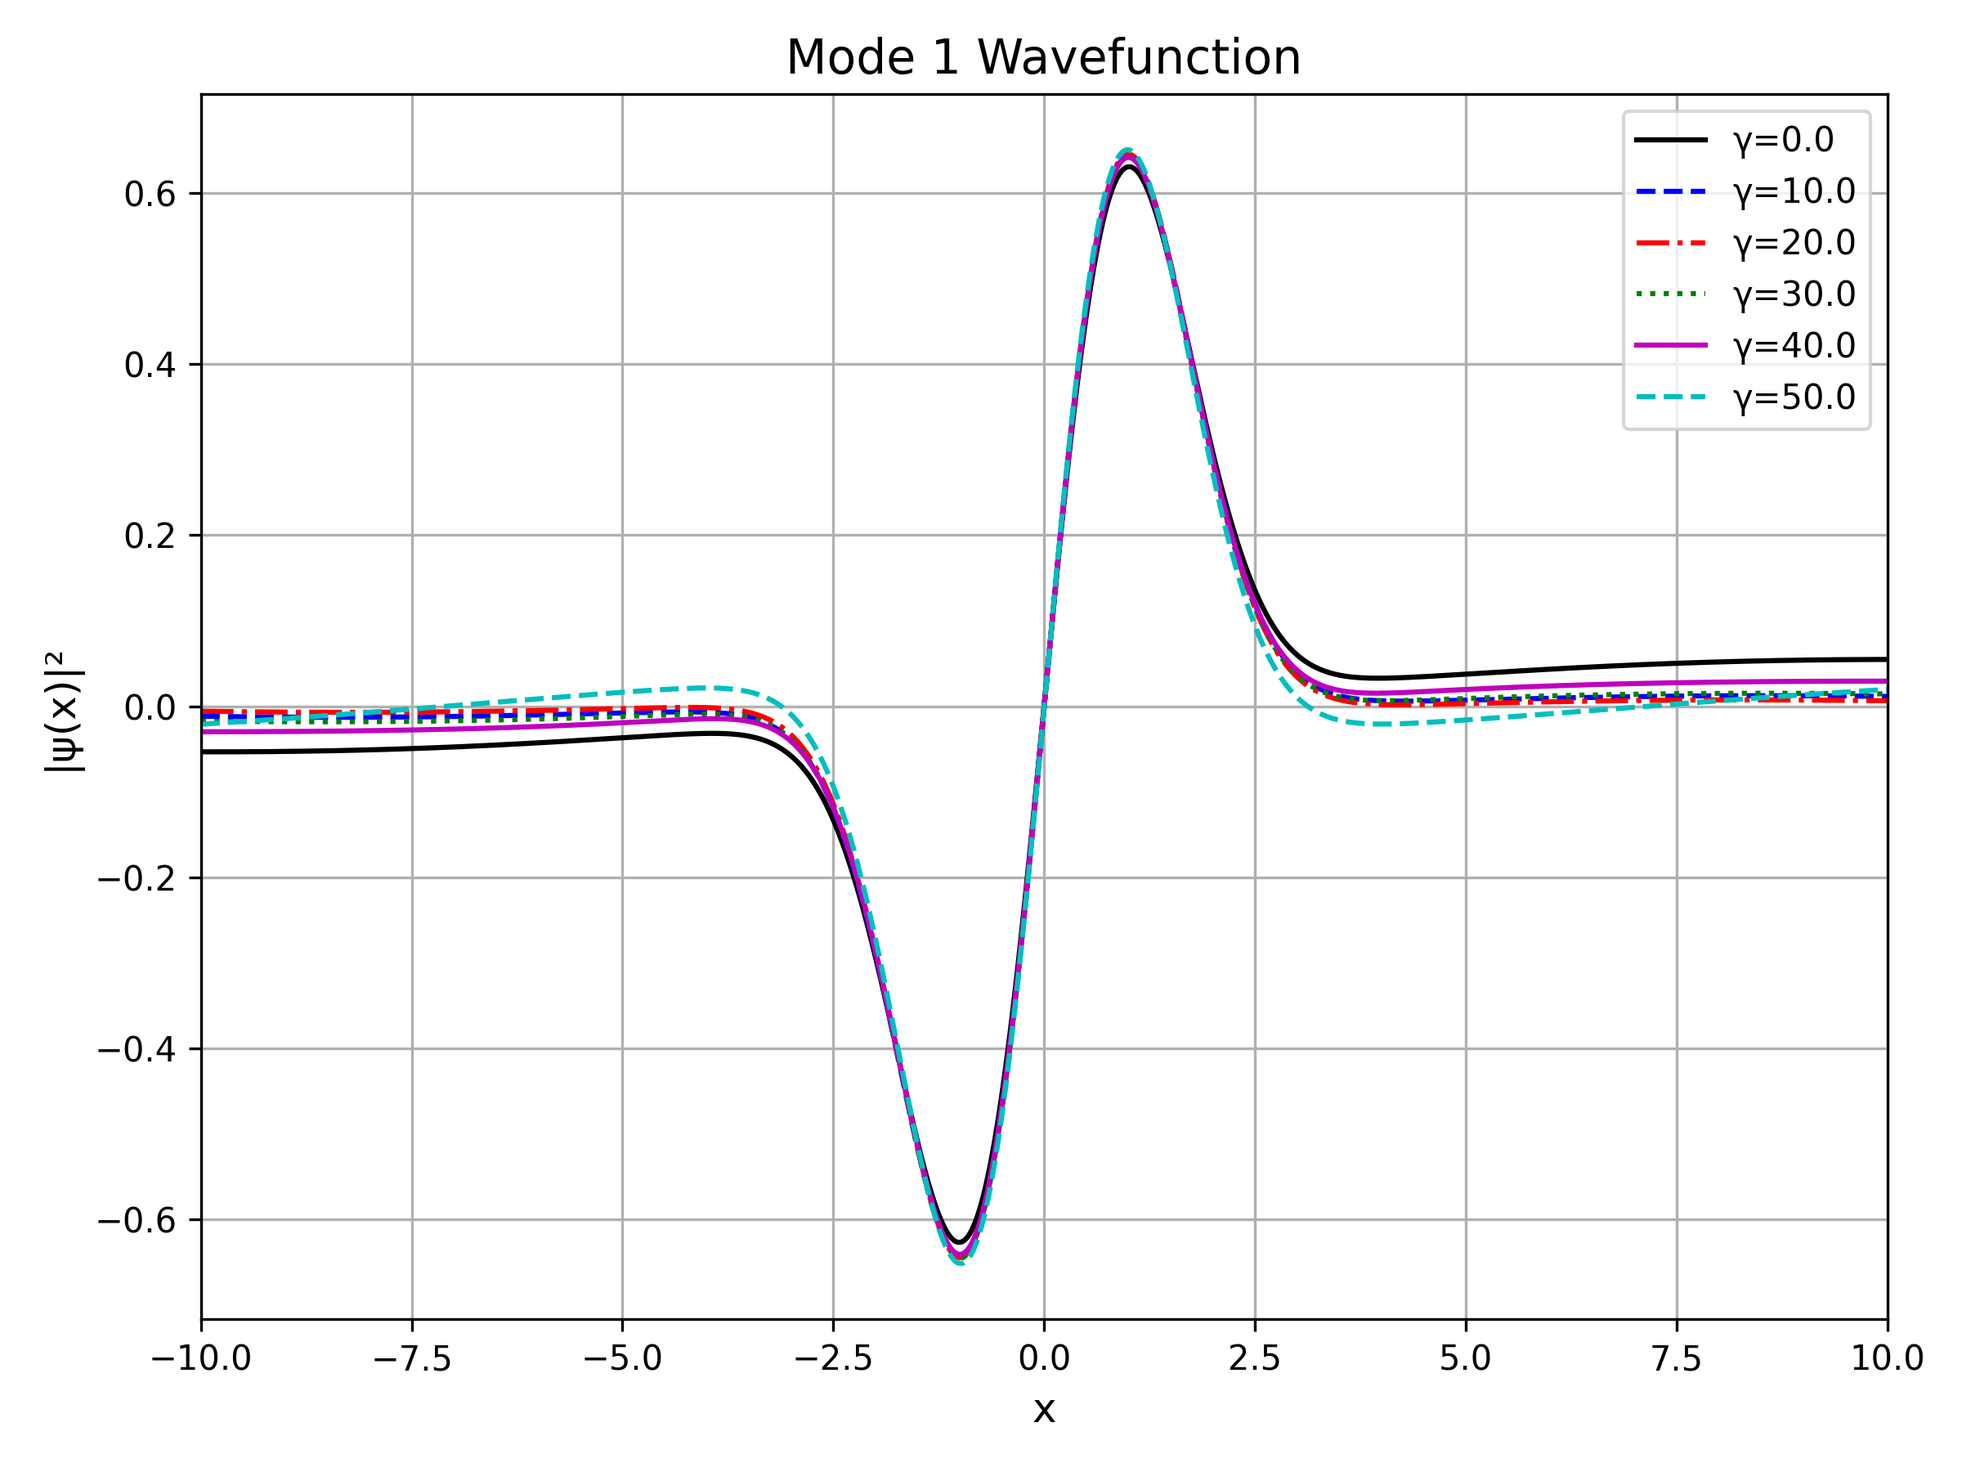
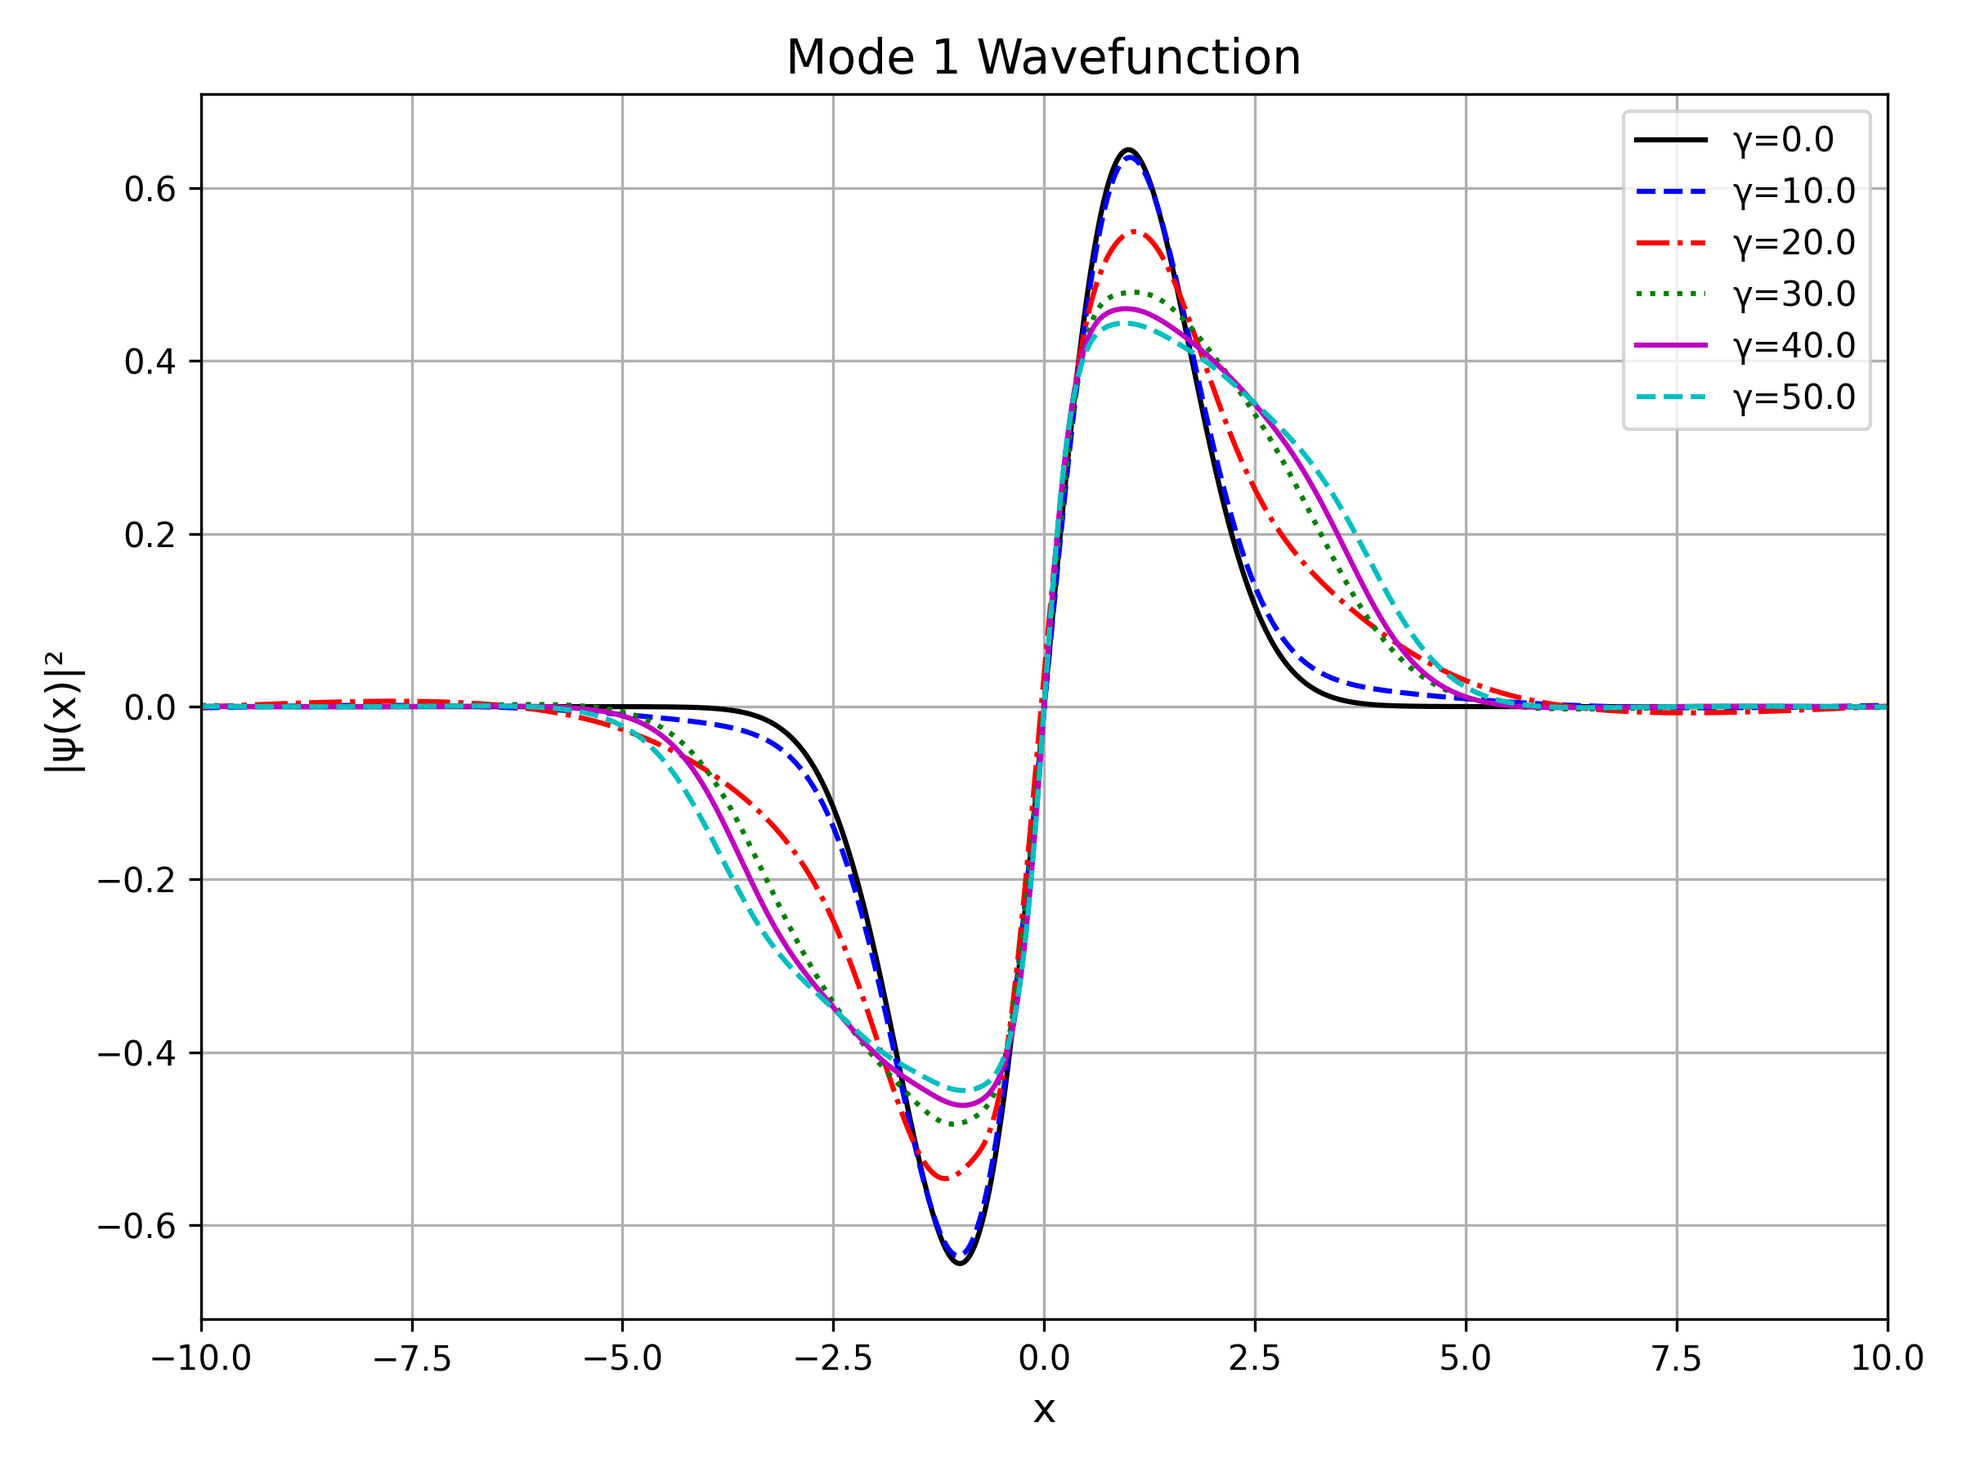
Updated box potential

Changed region(s): [[0.0625, 0.0933, 0.9688, 0.4978], [0.0625, 0.4667, 0.9375, 0.8711]]

diff --git a/Gross-Pitaevskii/src/overleaf/box_plots_nonlinearity_powers.py b/Gross-Pitaevskii/src/overleaf/box_plots_nonlinearity_powers.py
@@ -12,6 +12,7 @@ device = torch.device("cuda" if torch.cuda.is_available() else "cpu")
 import matplotlib.pyplot as plt
 import scienceplots
 import matplotlib as mpl
+
 mpl.rcParams['text.usetex'] = False  # Disable LaTeX rendering
 
 plot_params = {
@@ -41,7 +42,7 @@ class GrossPitaevskiiPINN(nn.Module):
     Physics-Informed Neural Network (PINN) for solving the 1D Gross-Pitaevskii Equation.
     """
 
-    def __init__(self, layers, hbar=1.0, m=1.0, mode=0, gamma=1.0):
+    def __init__(self, layers, hbar=1.0, m=1.0, mode=0, gamma=1.0, L=1.0):
         """
         Parameters
         ----------
@@ -55,6 +56,8 @@ class GrossPitaevskiiPINN(nn.Module):
             Mode number (default is 0).
         gamma : float, optional
             Interaction strength parameter.
+        L : float, optional
+            Length of the box (default is 1.0).
         """
         super().__init__()
         self.layers = layers
@@ -63,6 +66,7 @@ class GrossPitaevskiiPINN(nn.Module):
         self.m = m  # Particle mass, fixed
         self.mode = mode  # Mode number (n)
         self.gamma = gamma  # Interaction strength parameter
+        self.L = L  # Length of the box
 
     def build_network(self):
         """
@@ -75,14 +79,37 @@ class GrossPitaevskiiPINN(nn.Module):
                 layers.append(nn.Tanh())
         return nn.Sequential(*layers)
 
-    def weighted_hermite(self, x, n):
+    def box_eigenfunction(self, x, n):
         """
-        Compute the weighted Hermite polynomial solution for the linear case (gamma = 0).
+        Compute the analytic eigenfunction for a particle in a box.
+
+        For the linear case (gamma = 0), the solution is:
+        phi_n(x) = sqrt(2/L) * sin((n+1)*pi*x/L)
+
+        This corresponds to equation (22) in the paper.
         """
-        H_n = hermite(n)(x.cpu().detach().numpy())  # Hermite polynomial evaluated at x
-        norm_factor = (2 ** n * math.factorial(n) * np.sqrt(np.pi)) ** (-0.5)
-        weighted_hermite = norm_factor * torch.exp(-x ** 2 / 2) * torch.tensor(H_n, dtype=torch.float32).to(device)
-        return weighted_hermite
+        # For mode 0, n=1 in the sine function per equation (22)
+        n_actual = n + 1  # Convert mode number to quantum number (n=0 → first excited state with n_actual=1)
+
+        # Normalization factor
+        norm_factor = torch.sqrt(torch.tensor(2.0 / self.L))
+
+        # Sine function with proper scaling
+        phi_n = norm_factor * torch.sin(n_actual * torch.pi * x / self.L)
+
+        return phi_n
+
+    def energy_eigenvalue(self, n):
+        """
+        Compute the energy eigenvalue for mode n in a box potential.
+
+        E_n = ((n+1)²π²ħ²)/(2mL²)  # Adjusting for 0-indexed modes
+
+        With ħ=1 and m=1, this simplifies to:
+        E_n = ((n+1)²π²)/(2L²)
+        """
+        n_actual = n + 1  # Convert mode to quantum number
+        return (n_actual ** 2 * np.pi ** 2) / (2 * self.L ** 2)
 
     def forward(self, inputs):
         """
@@ -92,32 +119,32 @@ class GrossPitaevskiiPINN(nn.Module):
 
     def get_complete_solution(self, x, perturbation, mode=None):
         """
-        Get the complete solution by combining the base Hermite solution with the neural network perturbation.
+        Get the complete solution by combining the base sine solution with the neural network perturbation.
         """
         if mode is None:
             mode = self.mode
-        base_solution = self.weighted_hermite(x, mode)
+        base_solution = self.box_eigenfunction(x, mode)
         return base_solution + perturbation
 
-    def compute_potential(self, x, potential_type="harmonic", **kwargs):
+    def compute_potential(self, x, potential_type="box"):
         """
         Compute potential function for the 1D domain.
+
+        For the box potential:
+        V(x) = 0 for 0 < x < L
+        V(x) = ∞ for x <= 0 or x >= L (enforced via boundary conditions)
         """
-        if potential_type == "harmonic":
-            omega = kwargs.get('omega', 1.0)  # Frequency for harmonic potential
+        if potential_type == "box":
+            # Infinite square well / box potential is zero inside the box
+            V = torch.zeros_like(x)
+        elif potential_type == "harmonic":
+            omega = 1.0  # Frequency for harmonic potential
             V = 0.5 * omega ** 2 * x ** 2
-        elif potential_type == "gaussian":
-            a = kwargs.get('a', 0.0)  # Center of the Gaussian
-            V = torch.exp(-(x - a) ** 2)
-        elif potential_type == "periodic":
-            V0 = kwargs.get('V0', 1.0)  # Depth of the potential
-            k = kwargs.get('k', 2 * np.pi / 5.0)  # Wave number for periodic potential
-            V = V0 * torch.cos(k * x) ** 2
         else:
             raise ValueError(f"Unknown potential type: {potential_type}")
         return V
 
-    def pde_loss(self, inputs, predictions, gamma, p, potential_type="harmonic", precomputed_potential=None):
+    def pde_loss(self, inputs, predictions, gamma, p, potential_type="box", precomputed_potential=None):
         """
         Compute the PDE loss for the Gross-Pitaevskii equation.
         μψ = -1/2 ∇²ψ + Vψ + γ|ψ|²ψ
@@ -151,8 +178,9 @@ class GrossPitaevskiiPINN(nn.Module):
         # Calculate chemical potential
         kinetic = -0.5 * u_xx
         potential = V * u
-        #interaction = gamma * u ** 3
-        interaction = gamma * torch.abs(u) ** (p - 1) * u
+
+        # Always use cubic nonlinearity (p=3) for box problem
+        interaction = gamma * u ** 3
 
         numerator = torch.mean(u * (kinetic + potential + interaction))
         denominator = torch.mean(u ** 2)
@@ -166,7 +194,7 @@ class GrossPitaevskiiPINN(nn.Module):
 
         return pde_loss, pde_residual, lambda_pde, u
 
-    def riesz_loss(self, inputs, predictions, gamma, potential_type="harmonic", precomputed_potential=None):
+    def riesz_loss(self, inputs, predictions, gamma, potential_type="box", precomputed_potential=None):
         """
         Compute the Riesz energy loss for the Gross-Pitaevskii equation.
         E[ψ] = ∫[|∇ψ|²/2 + V|ψ|² + γ|ψ|⁴/2]dx
@@ -270,8 +298,8 @@ def advanced_initialization(m, mode):
             m.bias.data.fill_(0.01)
 
 
-def train_gpe_model(gamma_values, modes, p, X_train, lb, ub, layers, epochs,
-                    potential_type='harmonic', lr=1e-3, verbose=True):
+def train_gpe_model(gamma_values, modes, L, p, X_train, layers, epochs,
+                    potential_type='box', lr=1e-3, verbose=True):
     """
     Train the GPE model for different modes and gamma values.
 
@@ -281,18 +309,18 @@ def train_gpe_model(gamma_values, modes, p, X_train, lb, ub, layers, epochs,
         List of interaction strengths to train models for
     modes : list of int
         List of modes to train (0, 1, 2, 3, etc.)
-    X_train : numpy.ndarray
-        Training points array
+    L : float
+        Length of the box
     p : int
         Parameter for nonlinearity power
-    lb, ub : float
-        Lower and upper boundaries of the domain
+    X_train : numpy.ndarray
+        Training points array
     layers : list of int
         Network architecture
     epochs : int
         Number of training epochs
     potential_type : str
-        Type of potential ('harmonic', 'gaussian', etc.)
+        Type of potential ('box', 'harmonic', etc.)
     lr : float
         Learning rate
     verbose : bool
@@ -308,7 +336,7 @@ def train_gpe_model(gamma_values, modes, p, X_train, lb, ub, layers, epochs,
     X_tensor = torch.tensor(X_train, dtype=torch.float32, requires_grad=True).to(device)
 
     # Create boundary conditions
-    boundary_points = torch.tensor([[lb], [ub]], dtype=torch.float32).to(device)
+    boundary_points = torch.tensor([[0.0], [L]], dtype=torch.float32).to(device)
     boundary_values = torch.zeros((2, 1), dtype=torch.float32).to(device)
 
     # Track models and chemical potentials
@@ -331,7 +359,7 @@ def train_gpe_model(gamma_values, modes, p, X_train, lb, ub, layers, epochs,
                 print(f"\nTraining for γ = {gamma:.2f}, mode = {mode}, nonlinearity p = {p}")
 
             # Initialize model for this mode and gamma
-            model = GrossPitaevskiiPINN(layers, mode=mode, gamma=gamma).to(device)
+            model = GrossPitaevskiiPINN(layers, mode=mode, gamma=gamma, L=L).to(device)
 
             # If this isn't the first gamma value, initialize with previous model's weights
             if prev_model is not None:
@@ -362,7 +390,16 @@ def train_gpe_model(gamma_values, modes, p, X_train, lb, ub, layers, epochs,
                 pde_loss, _, lambda_pde, full_u = model.pde_loss(X_tensor, u_pred, gamma, p, potential_type)
                 boundary_loss = model.boundary_loss(boundary_points, boundary_values)
                 norm_loss = model.normalization_loss(full_u, dx)
-                sym_loss = model.symmetry_loss(X_tensor, lb, ub)
+                sym_loss = model.symmetry_loss(X_tensor, 0, L)
+
+                # For γ = 0.0, we know the exact energy should be π²/(2L²)
+                if gamma == 0.0:
+                    # Get the analytical energy value
+                    exact_energy = model.energy_eigenvalue(mode)
+
+                    # Add loss term to push towards the correct energy
+                    energy_error = (lambda_pde - exact_energy) ** 2
+                    pde_loss = pde_loss + 5.0 * energy_error
 
                 # Total loss - balance different components
                 total_loss = pde_loss + 10.0 * boundary_loss + 20.0 * norm_loss + 5.0 * sym_loss
@@ -396,7 +433,7 @@ def train_gpe_model(gamma_values, modes, p, X_train, lb, ub, layers, epochs,
     return models_by_mode, mu_table
 
 
-def plot_wavefunction(models_by_mode, X_test, gamma_values, modes, p, save_dir="plots"):
+def plot_wavefunction(models_by_mode, X_test, gamma_values, modes, L, p, save_dir="plots"):
     """
     Plot wavefunction densities for different modes and gamma values.
     """
@@ -433,7 +470,7 @@ def plot_wavefunction(models_by_mode, X_test, gamma_values, modes, p, save_dir="
                 # Normalization
                 u_np /= np.sqrt(np.sum(u_np ** 2) * dx)
 
-                # Plot wavefunction density
+                # Plot wavefunction
                 plt.plot(X_test.flatten(), u_np,
                          linestyle=linestyles[j % len(linestyles)],
                          color=colors[j % len(colors)],
@@ -445,27 +482,26 @@ def plot_wavefunction(models_by_mode, X_test, gamma_values, modes, p, save_dir="
         plt.ylabel(r"$\psi(x)$", fontsize=18)
         plt.grid(True)
         plt.legend()
-        plt.xlim(-10, 10)  # Match paper's range
+        plt.xlim(0, L)  # Set x limits to match domain
+        if mode == 0:
+            plt.ylim(-0.2, 1.6)
+        else:
+            plt.ylim(-1.6, 1.6)  # Set y limits to match Figure 5 in paper
         plt.tight_layout()
         plt.savefig(os.path.join(save_dir, f"mode_{mode}_wavefunction.png"), dpi=300)
         plt.close()
 
     # Also create a combined grid figure to show all modes
-    plot_combined_grid(models_by_mode, X_test, gamma_values, modes, p, save_dir)
+    plot_combined_grid(models_by_mode, X_test, gamma_values, modes, L, p, save_dir)
 
 
-def plot_combined_grid(models_by_mode, X_test, gamma_values, modes, p, save_dir="plots"):
+def plot_combined_grid(models_by_mode, X_test, gamma_values, modes, L, p, save_dir="plots"):
     """
     Create a grid of subplots showing all modes.
-
-    Parameters:
-    -----------
-    p : int
-        Nonlinearity power used in the models
     """
     # Determine grid dimensions
     n_modes = len(modes)
-    n_cols = min(4, n_modes)  # Max 4 columns
+    n_cols = min(3, n_modes)  # Max 3 columns (to match paper's format)
     n_rows = (n_modes + n_cols - 1) // n_cols  # Ceiling division
 
     # Create figure with subplots
@@ -507,24 +543,23 @@ def plot_combined_grid(models_by_mode, X_test, gamma_values, modes, p, save_dir=
                 # Proper normalization
                 u_np /= np.sqrt(np.sum(u_np ** 2) * dx)
 
-                # For mode 0, ensure all wavefunctions are positive
-                if mode == 0:
-                    # Take absolute value to ensure positive values
-                    u_np = np.abs(u_np)
-
-                # Plot the wavefunction (not density)
+                # Plot the wavefunction
                 ax.plot(X_test.flatten(), u_np,
                         linestyle=linestyles[j % len(linestyles)],
                         color=colors[j % len(colors)],
                         label=f"γ={gamma:.1f}")
 
         # Configure the subplot
-        ax.set_title(f"Mode {mode}", fontsize=12)
-        ax.set_xlabel("x", fontsize=18)
-        ax.set_ylabel(r"$\psi(x)$", fontsize=18)
+        ax.set_title(f"mode {mode}", fontsize=12)
+        ax.set_xlabel("x", fontsize=12)
+        ax.set_ylabel(r"$\psi(x)$", fontsize=12)
         ax.grid(True)
         ax.legend(fontsize=8)
-        ax.set_xlim(-10, 10)
+        ax.set_xlim(0, L)  # Match domain [0,1]
+        if mode == 0:
+            plt.ylim(-0.2, 1.6)
+        else:
+            plt.ylim(-1.6, 1.6)  # Set y limits to match Figure 5 in paper
 
     # Hide any unused subplots
     for i in range(len(modes), len(axes)):
@@ -577,44 +612,49 @@ def plot_mu_vs_gamma(mu_table, modes, p, save_dir="plots"):
 
 if __name__ == "__main__":
     # Setup parameters
-    lb, ub = -10, 10  # Domain boundaries
+    L = 1.0  # Length of the box (0 to L) - Changed from 10.0
     N_f = 4000  # Number of collocation points
-    epochs = 4001  # Increased epochs for better convergence
+    epochs = 2001  # Increased epochs for better convergence
     layers = [1, 64, 64, 64, 1]  # Neural network architecture
 
     # Create uniform grid for training and testing
-    X = np.linspace(lb, ub, N_f).reshape(-1, 1)
-    X_test = np.linspace(lb, ub, 1000).reshape(-1, 1)  # Higher resolution for plotting
+    X = np.linspace(0, L, N_f).reshape(-1, 1)
+    X_test = np.linspace(0, L, 1000).reshape(-1, 1)  # Higher resolution for plotting
 
-    # Gamma values from the paper
+    # Gamma values from the paper (Figure 5)
     gamma_values = [0.0, 10.0, 20.0, 50.0, 100.0, 200.0]
 
-    # Include modes 0 through 7
-    modes = [0, 1, 2, 3, 4, 5, 6, 7]
+    # Include modes 0 through 5 to match Figure 5
+    modes = [0, 1, 2, 3, 4, 5]
 
-    # Nonlinearity powers
-    nonlinearity_powers = [4]
+    # Fixed nonlinearity power p=3 for cubic nonlinearity
+    p = 3
 
-    for p in nonlinearity_powers:
-        # Create a specific directory for this p value
-        p_save_dir = f"plots_p{p}"
-        os.makedirs(p_save_dir, exist_ok=True)
+    # Print expected analytical energies for reference
+    print("Expected analytical energies for γ = 0:")
+    for mode in modes:
+        energy = ((mode + 1) ** 2 * np.pi ** 2) / (2 * L ** 2)  # Adjusted for 0-indexed modes
+        print(f"Mode {mode}: Energy = {energy:.6f}")
 
-        # Train models
-        print(f"Starting training for all modes and gamma values with p={p}...")
-        models_by_mode, mu_table = train_gpe_model(
-            gamma_values, modes, p, X, lb, ub, layers, epochs,
-            potential_type='harmonic', lr=1e-3, verbose=True
-        )
-        print(f"Training completed for p={p}.")
+    # Create a specific directory for box potential
+    save_dir = "plots_box_figure5"
+    os.makedirs(save_dir, exist_ok=True)
 
-        # Plot wavefunctions (not densities) for individual modes
-        print("Generating individual mode plots...")
-        plot_wavefunction(models_by_mode, X_test, gamma_values, modes, p, p_save_dir)
+    # Train models
+    print(f"Starting training for all modes and gamma values with p={p}...")
+    models_by_mode, mu_table = train_gpe_model(
+        gamma_values, modes, L, p, X, layers, epochs,
+        potential_type='box',  # Changed from 'harmonic' to 'box'
+        lr=1e-3, verbose=True
+    )
+    print("Training completed.")
 
-        # Plot μ vs γ for all modes
-        print("Generating chemical potential vs. gamma plot...")
-        plot_mu_vs_gamma(mu_table, modes, p, p_save_dir)
+    # Plot wavefunctions for individual modes
+    print("Generating individual mode plots...")
+    plot_wavefunction(models_by_mode, X_test, gamma_values, modes, L, p, save_dir)
 
-        print(f"Completed all calculations for nonlinearity power p={p}")
-        print("-" * 80)
+    # Plot μ vs γ for all modes
+    print("Generating chemical potential vs. gamma plot...")
+    plot_mu_vs_gamma(mu_table, modes, p, save_dir)
+
+    print("Completed all calculations for box potential")
